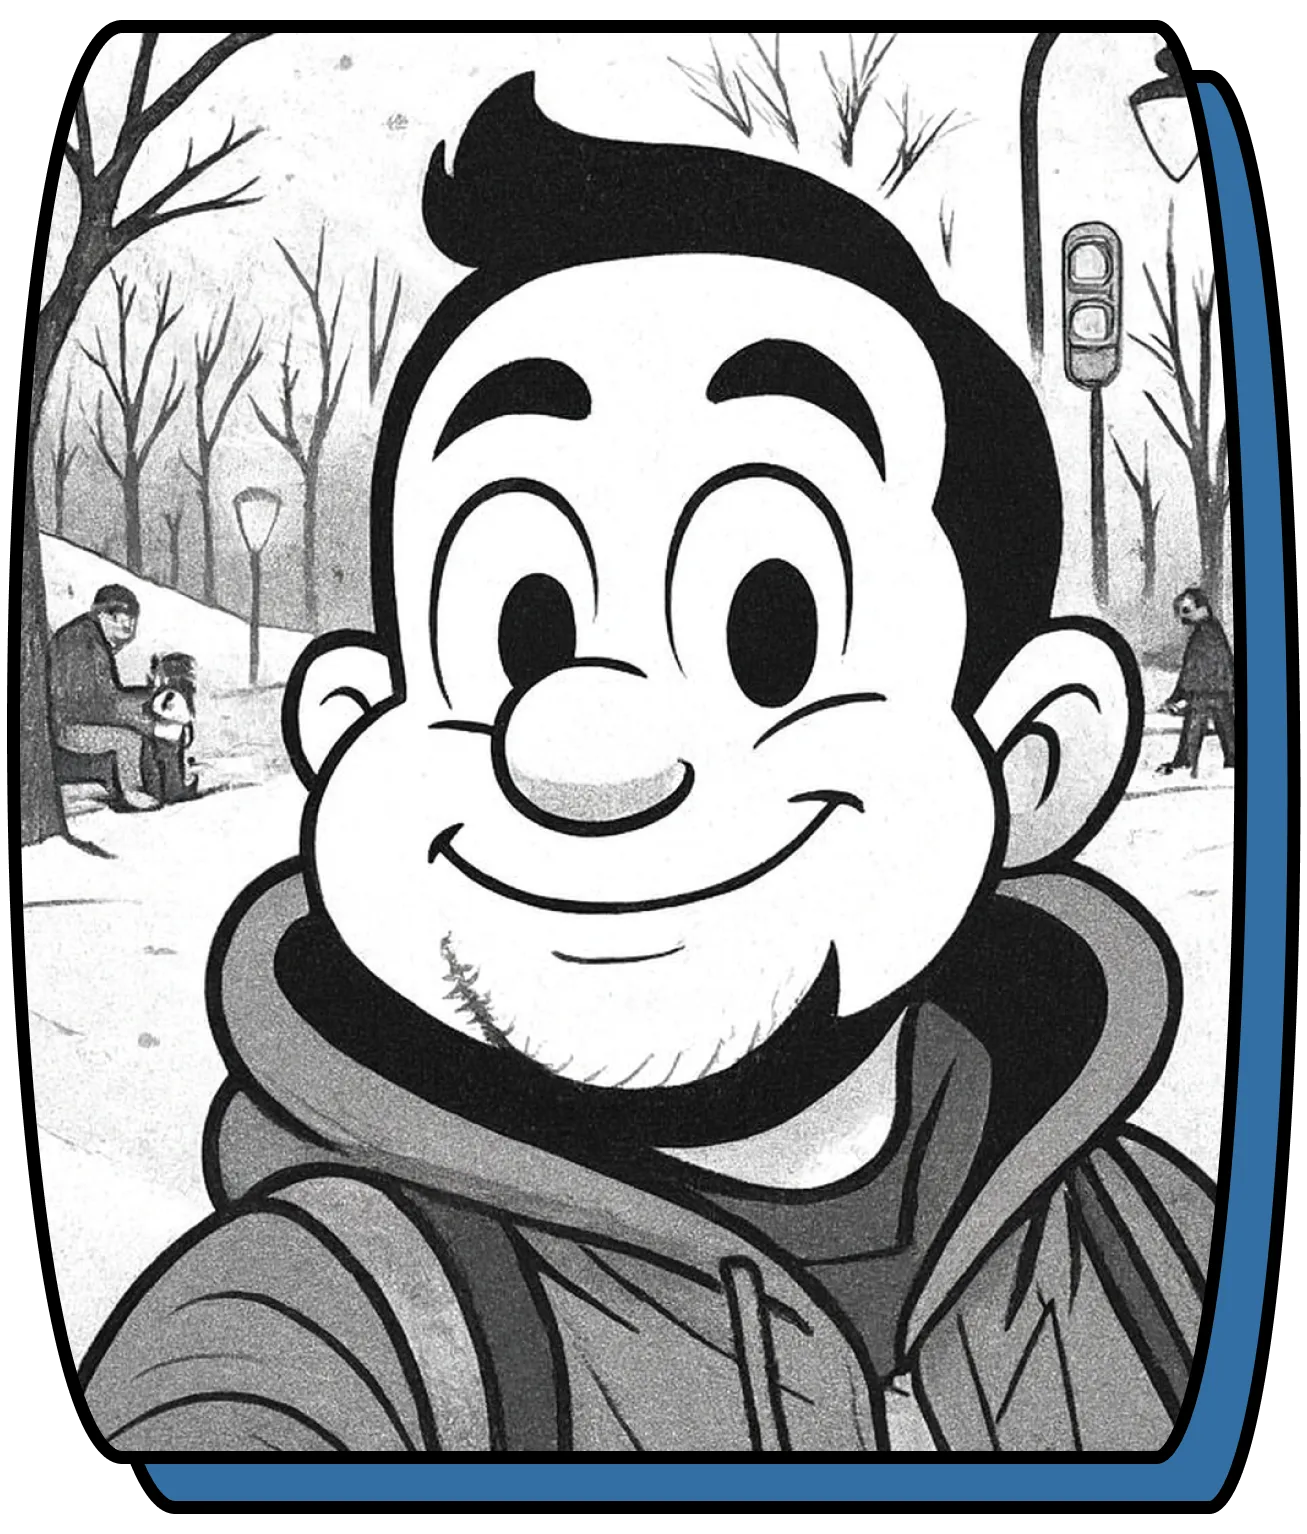
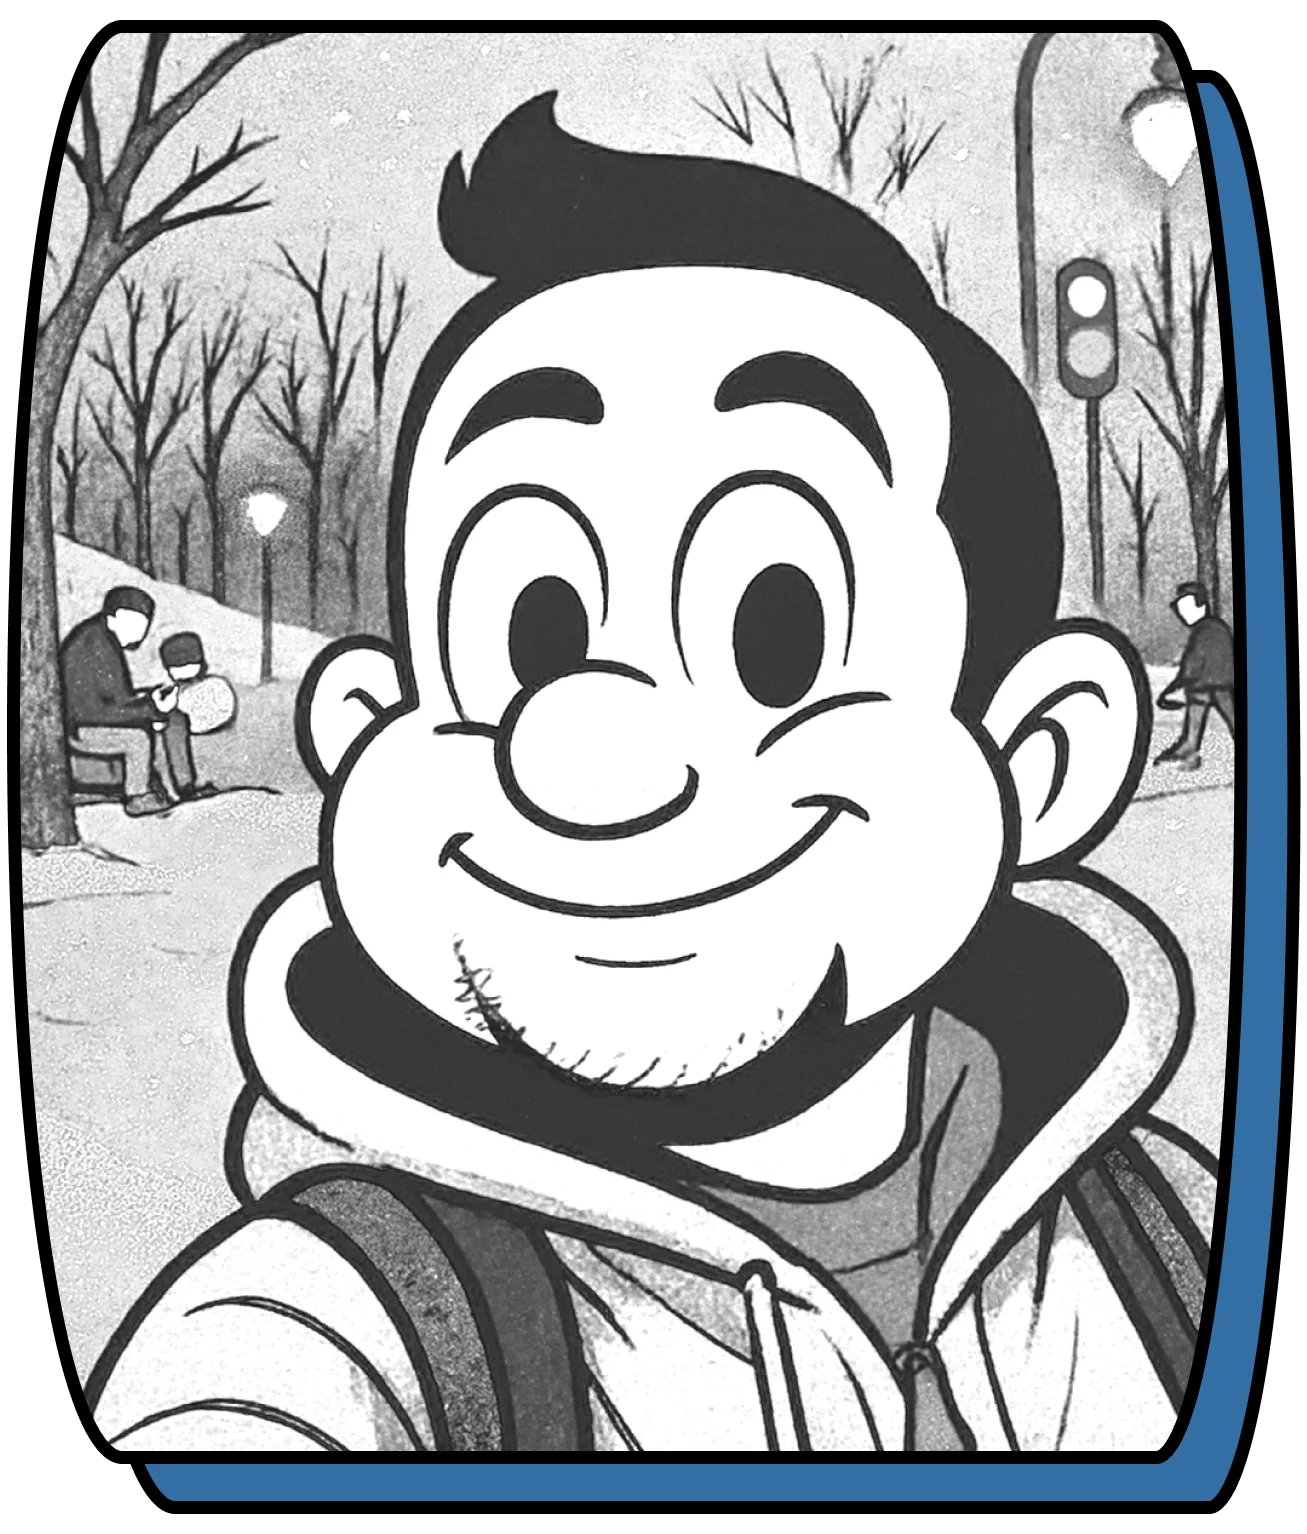
Experience section finished, light/dark theme included as well as images

diff --git a/src/views/Experience.tsx b/src/views/Experience.tsx
@@ -1,8 +1,107 @@
-export const Experience = () => (
-  <section id="experience" aria-labelledby="experience-heading" className="scroll-mt-20">
-    <h1 id="experience-heading" className="text-3xl font-bold">Experience</h1>
-    <p className="text-(--color-text-primary)">
-      Backend-focused roles working with Spring Boot, microservices, REST APIs, and distributed systems.
-    </p>
-  </section>
-);
+import { useTranslation } from "react-i18next";
+import { SectionDivider } from "../components/SectionDivider";
+import { experienceData } from "../data/experienceData";
+
+interface ExperienceProps {
+  theme: "light" | "dark";
+}
+
+export function Experience({ theme }: ExperienceProps) {
+  const { t } = useTranslation();
+
+  return (
+    <section
+      id="experience"
+      aria-labelledby="experience-heading"
+      className="scroll-mt-20 px-6 py-16 min-h-screen flex flex-col justify-center items-center"
+    >
+      {/* Section title */}
+      <h1
+        id="experience-heading"
+        className="w-full text-center text-(--color-text-primary) mb-8 font-extrabold text-[45px] md:text-5xl lg:text-8xl"
+      >
+        {t("sections.experience.title", "Experience")}
+      </h1>
+      <h2 className="text-4xl lg:text-6xl text-(--color-text-secondary) big-outline mb-14 font-bold starburst-pop">
+        {t("sections.experience.subtitle", "Hello...")}
+      </h2>
+
+      {/* Timeline wrapper */}
+      <div className="relative w-full max-w-5xl mx-auto">
+        {/* Vertical center line */}
+        <div className="absolute top-0 bottom-0 left-1/2 border-4 border-dashed border-(--color-text-tertiary) opacity-80 transform -translate-x-1/2 pointer-events-none"></div>
+
+        {/* Timeline items */}
+        <div className="flex flex-col gap-20">
+          {experienceData.map((item, index) => {
+            const isLeft = index % 2 === 0;
+            const description = t(item.descriptionKey, {
+              returnObjects: true,
+            }) as string[];
+
+            return (
+              <div
+                key={index}
+                className={`relative flex flex-col md:flex-row items-center ${
+                  isLeft ? "md:justify-start" : "md:justify-end"
+                }`}
+              >
+                {/* Dot on the line */}
+                <div className="hidden md:block absolute left-1/2 -translate-x-1/2 w-7 h-7 bg-(--color-text-tertiary) border-4 border-(--color-text-primary)  rounded-full z-10"></div>
+
+                {/* Card */}
+                <div
+                  className={`relative w-full md:w-[45%] 
+  p-6 pt-14 rounded-2xl 
+   ${item.bgClass} 
+  shadow-[10px_10px_0_var(--color-shadow-card-primary)]
+  border-6 border-black
+  ${isLeft ? "md:mr-auto" : "md:ml-auto"}`}
+                >
+                  {/* Title tag */}
+                  <div
+                    className="absolute text-lg lg:text-2xl -top-4 left-4 bg-(--color-shadow-card-primary) 
+      text-(--color-text-navbar) font-bold px-4 py-1 rounded-xl 
+      shadow-md border-4 border-black"
+                  >
+                    {item.year} — {t(item.titleKey)}
+                  </div>
+
+                  {/* Overpassing image */}
+                  <img
+                    src={item.images[theme]}
+                    alt={t("sections.experience.imageAlt")}
+                    className="absolute -right-5 -top-12 w-20 h-auto rubber-hose"
+                    draggable="false"
+                    loading="lazy"
+                  />
+
+                  {/* Text body */}
+                  <div className="space-y-3">
+                    {description.map((paragraph, i) => (
+                      <p
+                        key={i}
+                        className="${item.bgClass} text-lg lg:text-2xl leading-relaxed"
+                      >
+                        {paragraph}
+                      </p>
+                    ))}
+                  </div>
+                </div>
+              </div>
+            );
+          })}
+        </div>
+      </div>
+
+      {/* Divider */}
+      <div className="w-full mt-16">
+        <SectionDivider
+          className="justify-start md:justify-start gap-10 md:gap-20"
+          primaryClass="w-[500px] md:w-[600px] lg:w-[800px]"
+          altClass="w-[300px] md:w-[340px] lg:w-[375px]"
+        />
+      </div>
+    </section>
+  );
+}

diff --git a/src/index.css b/src/index.css
@@ -36,13 +36,15 @@ html:not(.theme-ready) * {
 
   --color-bg-navbarAndFooter: #336fa3;
   --color-bg-button: #336fa3;
-  --color-bg-body: #f7f6f4;
+  --color-bg-body: #f5f0e5;
 
-  --color-bg-square-primary: #dd781f;
-  --color-bg-square-secondary: #c37a77;
-  --color-bg-square-tertiary: #00915d;
-  --color-bg-square-quaternary: #336fa3;
-  --color-bg-square-fifth: #d2ad4b;
+  /* Card color palette*/
+  --color-shadow-card-primary: #121212;
+  --color-bg-card-primary: #c8d69b;
+  --color-text-card-primary: #3971b8;
+  --color-bg-card-secondary: #deaa79;
+  --color-text-card-secondary: #335c67;
+
 
   /* retro cartoon button shadow */
   --retro-shadow: 4px 4px 0px 0px rgba(0, 0, 0, 1);
@@ -58,45 +60,74 @@ html:not(.theme-ready) * {
   --color-text-button: #2e2e2e;
 
   --color-hover-text-navbarAndFooter: #ffb84d;
-  --color-bg-button: #ffb84d;
 
   --color-bg-navbarAndFooter: #1f3a56;
+  --color-bg-button: #ffb84d;
   --color-bg-body: #121212;
 
-  --color-bg-square-primary: #8e4e12;
-  --color-bg-square-secondary: #8c5150;
-  --color-bg-square-tertiary: #006e49;
-  --color-bg-square-quaternary: #245479;
-  --color-bg-square-fifth: #8f7731;
+  /* Card color palette*/
+  --color-shadow-card-primary: #3b3b3b;
+  --color-bg-card-primary: #659287;
+  --color-text-card-primary: #c8d69b;
+  --color-bg-card-secondary: #1f3a44;
+  --color-text-card-secondary: #f0dfc9;
+
 
   /* retro cartoon button shadow */
   --retro-shadow: 4px 4px 0px 0px rgba(255, 184, 77, 0.35);
 }
 
-/* Font family*/
+/* classes that use color variable for bg cards */
+.card-primary {
+  background-color: var(--color-bg-card-primary);
+  color: var(--color-text-card-primary);
+}
+
+.card-secondary {
+  background-color: var(--color-bg-card-secondary);
+  color: var(--color-text-card-secondary);
+}
+
+.card-tertiary {
+  background-color: var(--color-bg-card-tertiary);
+}
+
+.card-quaternary {
+  background-color: var(--color-bg-card-quaternary);
+}
+
+.card-fifth {
+  background-color: var(--color-bg-card-fifth);
+}
+
+/* Font family */
 @font-face {
   font-family: "Londrina";
   src: url("/src/assets/fonts/LondrinaSolid-Thin.ttf") format("truetype");
-  font-weight: 100; /*Thin*/
+  font-weight: 100;
   font-style: normal;
+  font-display: swap;
 }
 @font-face {
   font-family: "Londrina";
   src: url("/src/assets/fonts/LondrinaSolid-Light.ttf") format("truetype");
-  font-weight: 300; /*Light*/
+  font-weight: 300;
   font-style: normal;
+  font-display: swap;
 }
 @font-face {
   font-family: "Londrina";
   src: url("/src/assets/fonts/LondrinaSolid-Regular.ttf") format("truetype");
-  font-weight: 400; /*Regular*/
+  font-weight: 400;
   font-style: normal;
+  font-display: swap;
 }
 @font-face {
   font-family: "Londrina";
   src: url("/src/assets/fonts/LondrinaSolid-Black.ttf") format("truetype");
-  font-weight: 900; /*Black*/
+  font-weight: 900;
   font-style: normal;
+  font-display: swap;
 }
 
 /* outline style Name for --color-text-secondary*/

diff --git a/index.html b/index.html
@@ -3,9 +3,24 @@
 
 <head>
   <meta charset="UTF-8" />
-  <link rel="icon" type="image/svg+xml" href="/vite.svg" />
+<!-- Standard favicon for most browsers -->
+<link rel="icon" type="image/x-icon" href="/favicon/favicon.ico" />
+
+<!-- PNG favicons for higher resolution / Apple devices -->
+<link rel="apple-touch-icon" sizes="180x180" href="/favicon/favicon-180x180.png">
+<link rel="icon" type="image/png" sizes="32x32" href="/favicon/favicon-32x32.png">
+<link rel="icon" type="image/png" sizes="16x16" href="/favicon/favicon-16x16.png">
+
+<!-- Optional Android / PWA -->
+<link rel="icon" type="image/png" sizes="192x192" href="/favicon/favicon-192x192.png">
+<link rel="icon" type="image/png" sizes="256x256" href="/favicon/favicon-256x256.png">
   <meta name="viewport" content="width=device-width, initial-scale=1.0" />
-  <link href="/src/index.css" rel="stylesheet">
+  <link href="/index.css" rel="stylesheet">
+<!-- Preload Londrina fonts -->
+<link rel="preload" href="/src/assets/fonts/LondrinaSolid-Thin.ttf" as="font" type="font/ttf" crossorigin>
+<link rel="preload" href="/src/assets/fonts/LondrinaSolid-Light.ttf" as="font" type="font/ttf" crossorigin>
+<link rel="preload" href="/src/assets/fonts/LondrinaSolid-Regular.ttf" as="font" type="font/ttf" crossorigin>
+<link rel="preload" href="/src/assets/fonts/LondrinaSolid-Black.ttf" as="font" type="font/ttf" crossorigin>
   <title>Jerry Hdez | Java Backend Developer Portfolio</title>
 </head>
 

diff --git a/src/views/About.tsx b/src/views/About.tsx
@@ -24,7 +24,7 @@ export function About({ theme }: AboutProps) {
       {/* Section title*/}
       <h1
         id="about-heading"
-        className="w-full text-center text-(--color-text-primary) mb-10 font-extrabold text-3xl lg:text-4xl xl:text-5xl"
+        className="w-full text-center text-(--color-text-primary) mb-10 font-extrabold text-[45px] md:text-5xl lg:text-8xl"
       >
         {t("sections.about.aboutTitle", "About Me")}
       </h1>
@@ -33,7 +33,7 @@ export function About({ theme }: AboutProps) {
       <div className="w-full md:grid md:grid-cols-2 md:gap-10 items-center">
         {/* Text: greeting + paragraphs */}
         <div className="order-1 md:order-2 flex flex-col justify-center">
-          <h2 className="text-4xl lg:text-7xl text-start text-(--color-text-secondary) big-outline md:text-start mb-6 font-bold starburst-pop">
+          <h2 className="text-4xl lg:text-6xl text-start text-(--color-text-secondary) big-outline md:text-start mb-6 font-bold starburst-pop">
             {t("sections.about.greeting", "Hello...")}
           </h2>
 

diff --git a/src/data/experienceData.ts b/src/data/experienceData.ts
@@ -1,0 +1,27 @@
+import cartoonImage1Light from "../assets/images/cartoonImage1Light.webp";
+import cartoonImage1Dark from "../assets/images/cartoonImage1Dark.webp";
+import cartoonImage2Light from "../assets/images/cartoonImage2Light.webp";
+import cartoonImage2Dark from "../assets/images/cartoonImage2Dark.webp";
+
+export const experienceData = [
+  {
+    year: "2025",
+    titleKey: "sections.experience.items.0.title",
+    descriptionKey: "sections.experience.items.0.description",
+    images: {
+      light: cartoonImage1Light,
+      dark: cartoonImage1Dark,
+    },
+    bgClass: "card-primary"
+  },
+  {
+    year: "2025",
+    titleKey: "sections.experience.items.1.title",
+    descriptionKey: "sections.experience.items.1.description",
+    images: {
+      light: cartoonImage2Light,
+      dark: cartoonImage2Dark,
+    },
+    bgClass: "card-secondary"
+  },
+];

diff --git a/src/components/ThemeContext.tsx b/src/components/ThemeContext.tsx
@@ -33,7 +33,7 @@ export function ThemeProvider({ children }: { children: ReactNode }) {
   // Function to toggle theme
   const toggleTheme = () => {
     document.documentElement.classList.add("theme-transition");
-    setTheme(theme === "dark" ? "light" : "dark");
+    setTheme((prev) => (prev === "dark" ? "light" : "dark"));
 
     setTimeout(() => {
       document.documentElement.classList.remove("theme-transition");

diff --git a/src/App.tsx b/src/App.tsx
@@ -35,7 +35,7 @@ function App() {
         <div className="w-full max-w-[1400px] mx-auto px-6 ">
           <Home theme={theme} />
           <About theme={theme} />
-          <Experience />
+          <Experience theme={theme}/>
           <Technologies />
           <Projects />
           <Contact />
